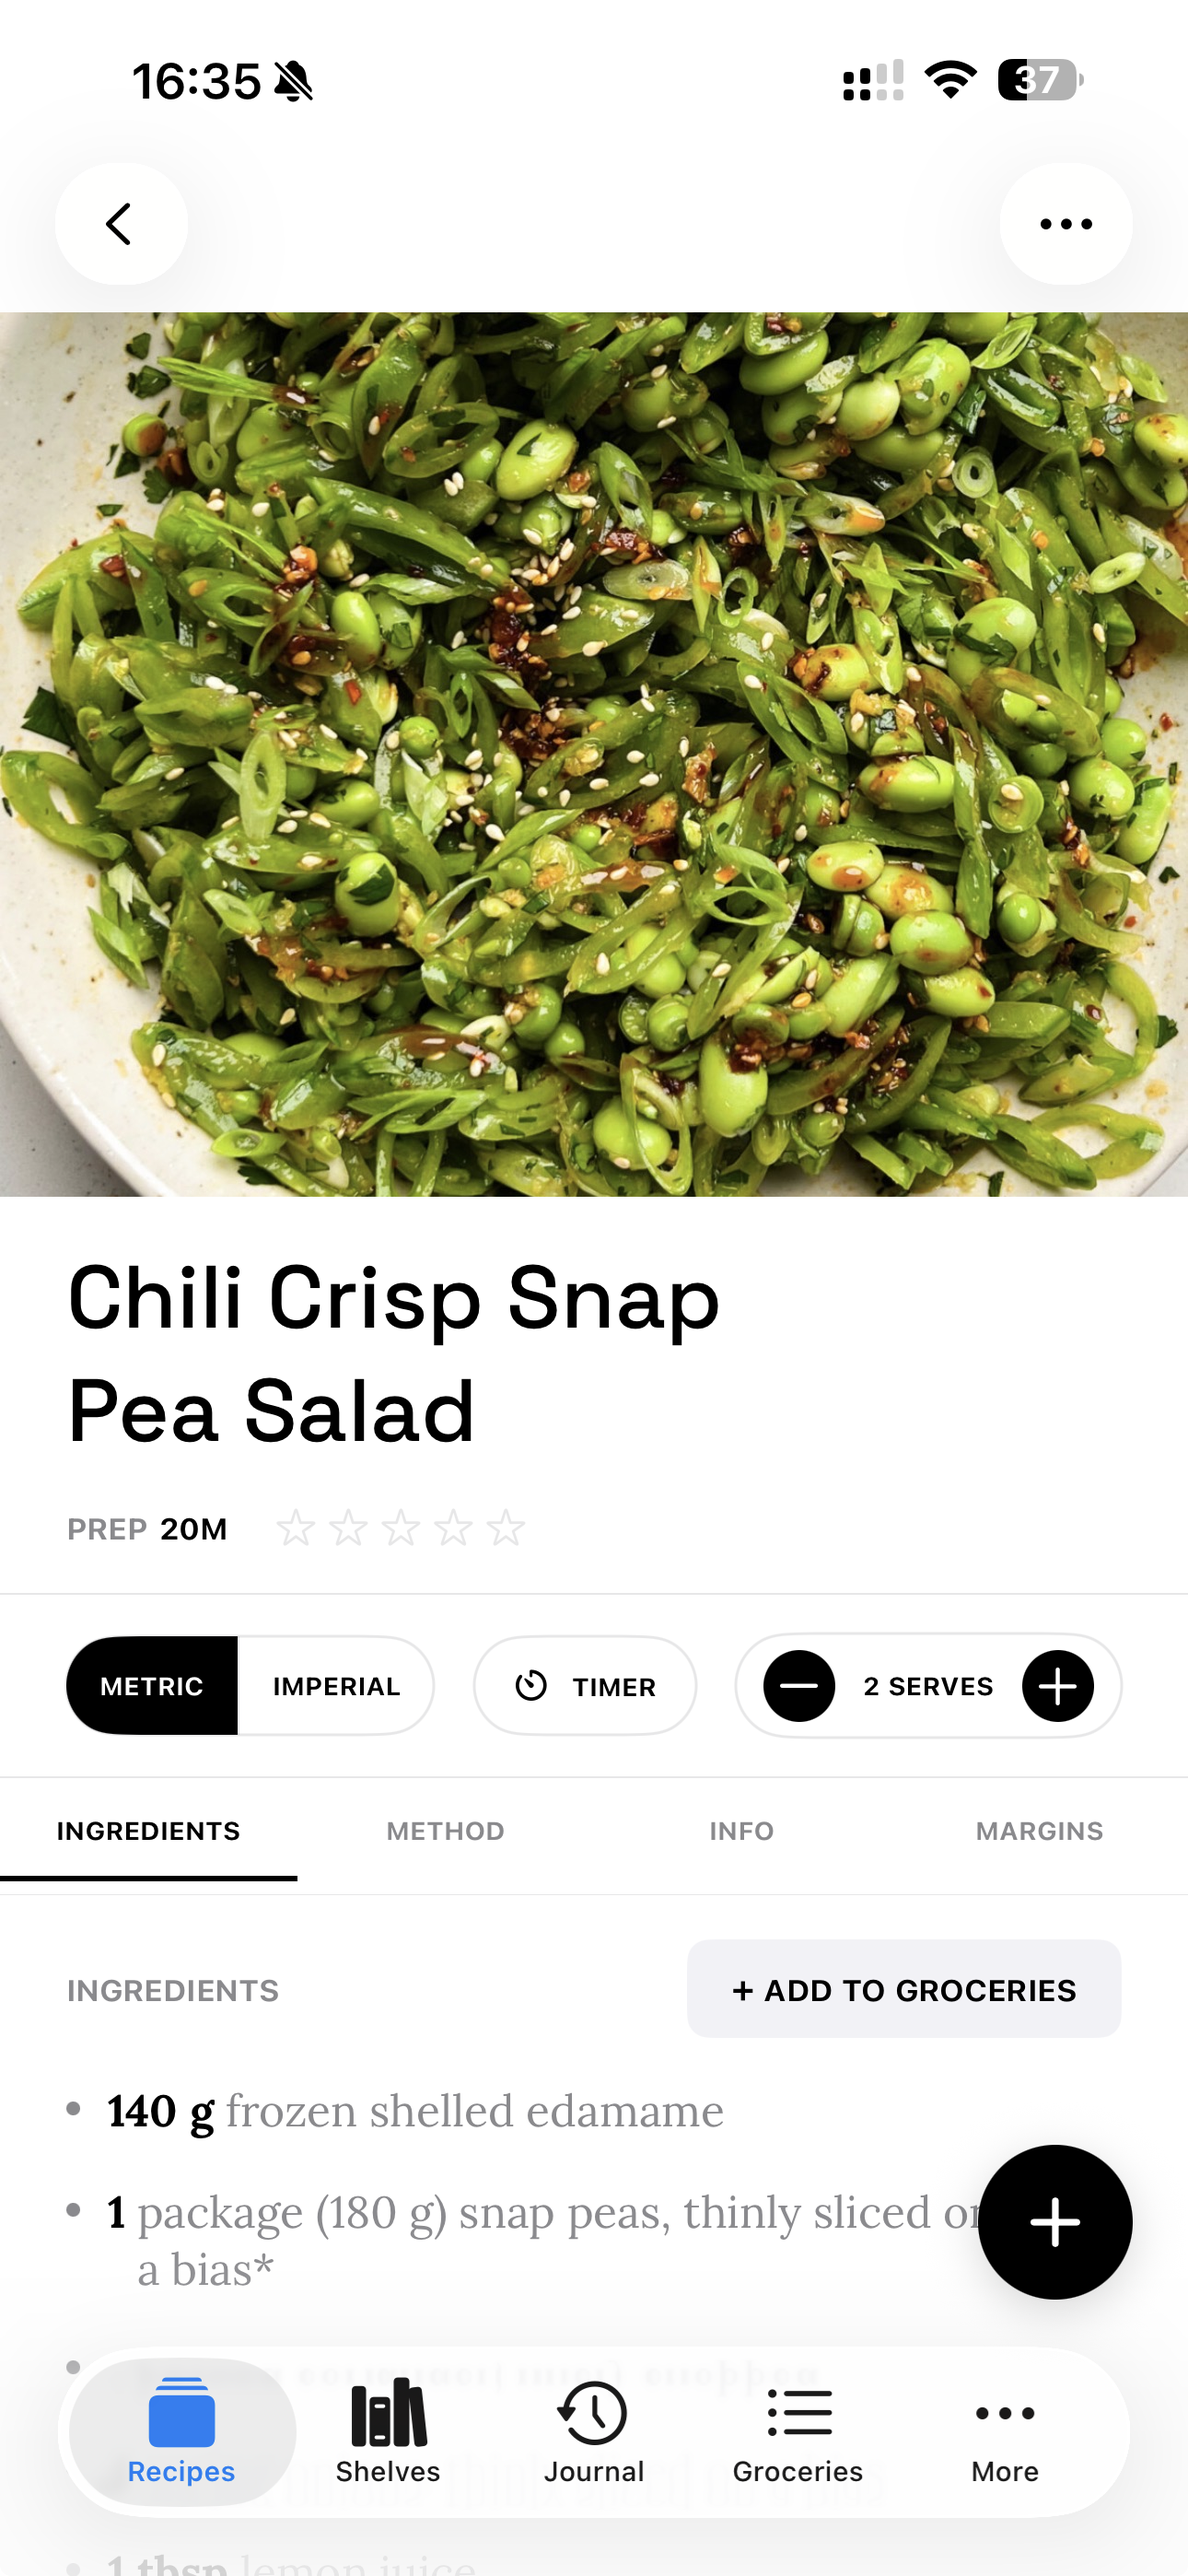
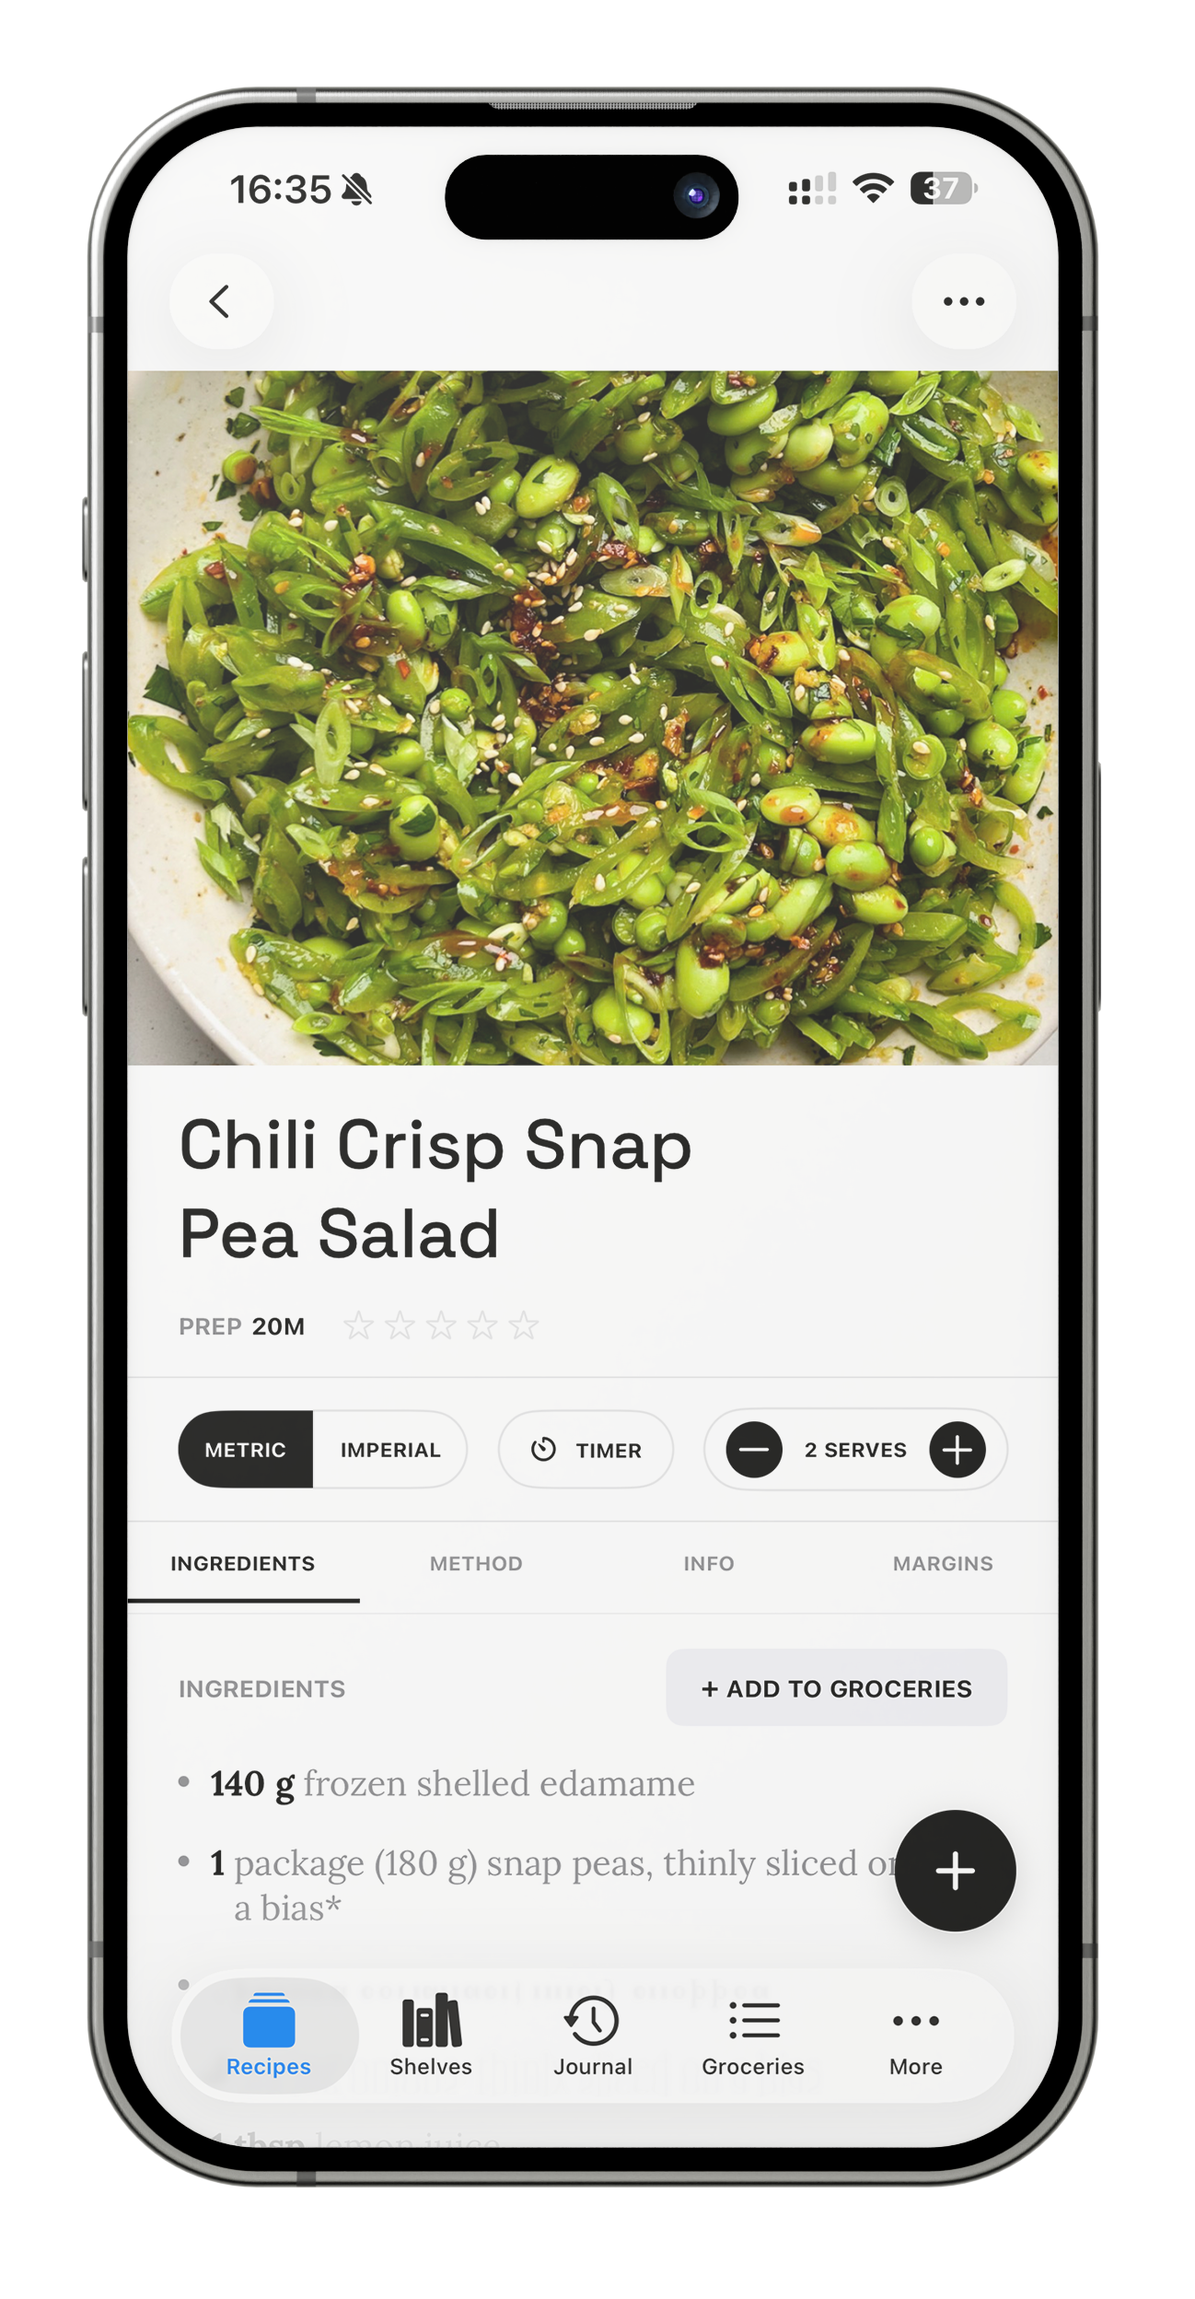
hero

diff --git a/src/App.jsx b/src/App.jsx
@@ -38,8 +38,7 @@ function App() {
           <a href="#early-access" className="hero-btn">Join the waitlist</a>
         </div>
         <div className="hero-right">
-          <img src="/
-        Hero.png" alt="Larder app icon" className="hero-icon" />
+          <img src="public/Hero.png" alt="Larder app icon" className="hero-icon" />
           <img src="/pot.png" alt="" className="hero-pot" aria-hidden="true" />
         </div>
       </section>
